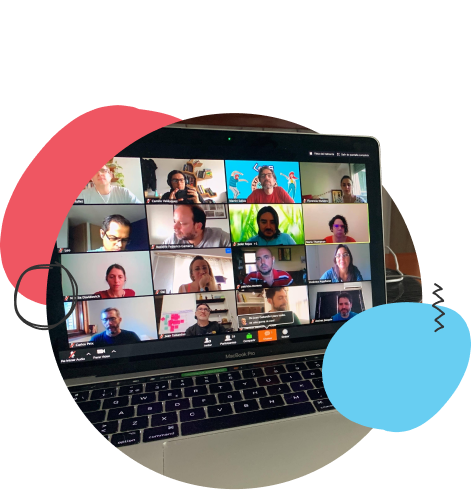
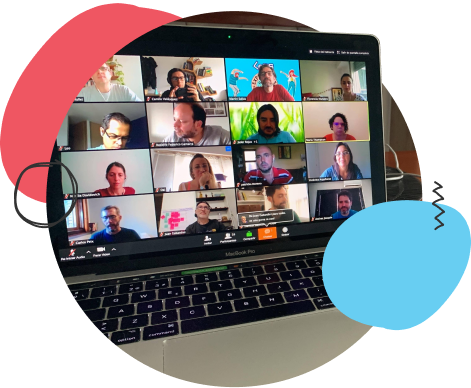
Styling figures and images of hero

diff --git a/public/app/css/index.css b/public/app/css/index.css
@@ -8,25 +8,26 @@
   height: 100%; }
 
 .hero__carousel {
-  height: 70vh; }
+  height: calc(100vh - 100px); }
 
 .carousel-inner {
   height: 100%; }
 
-.hero__carousel-item {
-  padding: 20px 100px;
-  background-color: #FFFFFF;
-  display: flex;
-  align-items: center; }
+.carousel__item {
+  height: 100%; }
 
-.carousel-caption {
-  padding-bottom: 50px;
-  text-shadow: none;
-  text-align: left;
-  right: auto;
-  color: #333333; }
-  .carousel-caption .text-vertical {
-    margin: 30px 0 0 50px; }
+.carousel__text {
+  display: flex;
+  flex-direction: column;
+  justify-content: center; }
+
+.carousel__img-container {
+  display: flex;
+  flex-direction: column;
+  justify-content: center; }
+
+.carousel__img {
+  max-width: 440px; }
 
 .carousel-indicators [data-bs-target] {
   background-color: #B3B3B3;
@@ -36,6 +37,16 @@
 
 .carousel-indicators .active {
   background-color: #EF5662; }
+
+.carousel-control-next {
+  width: 10% !important; }
+
+.carousel-control-prev {
+  width: 10% !important; }
+
+.hero_green_bean {
+  left: 50px;
+  bottom: 70px; }
 
 #promotion {
   margin-top: 70px; }
@@ -256,8 +267,7 @@ img {
   font-style: normal;
   font-weight: 600;
   font-size: 18px;
-  line-height: 20px;
-  margin: auto; }
+  line-height: 20px; }
 
 .my-secondary-button {
   font-style: normal;
@@ -273,6 +283,9 @@ img {
   background: white;
   border-radius: 100px;
   border: #68CEF2 2px solid; }
+
+.desktop_figure {
+  position: relative; }
 
 .navbar {
   max-width: 100vw !important;

diff --git a/public/app/scss/home.scss b/public/app/scss/home.scss
@@ -25,32 +25,32 @@ $white: #FFFFFF;
 .active {
   height: 100%;
 }
-
+//bootstrap edit
 .hero__carousel {
-  height: 70vh;
+  height: calc(100vh - 100px)
 }
-
+//bootstrap edit
 .carousel-inner {
   height: 100%;
 }
+.carousel__item{
+  height: 100%;
+}
 
-.hero__carousel-item{
-  padding: 20px 100px;
-  background-color: $white;
+.carousel__text{
   display: flex;
-  align-items: center;
+  flex-direction: column;
+  justify-content: center;
+}
+.carousel__img-container{
+  display: flex;
+  flex-direction: column;
+  justify-content: center;
+}
+.carousel__img{
+  max-width: 440px;
 }
 
-.carousel-caption {
-  padding-bottom: 50px;
-  text-shadow: none;
-  text-align: left;
-  right: auto;
-  color: $black;
-  .text-vertical {
-    margin: 30px 0 0 50px;
-  }
-}
 //bootstrap edited
 .carousel-indicators [data-bs-target]{
   background-color: $grey;
@@ -62,8 +62,21 @@ $white: #FFFFFF;
 .carousel-indicators .active {
   background-color: $primary-red;
 }
+//bootstrap edited
+.carousel-control-next{
+  width: 10% !important;
+}
+//bootstrap edited
+.carousel-control-prev{
+  width: 10% !important;
+}
 
-//promotion
+.hero_green_bean{
+  left: 50px;
+  bottom: 70px
+}
+
+//promotion----------------
 #promotion{
   margin-top: 70px;
 }

diff --git a/public/app/css/home.css b/public/app/css/home.css
@@ -6,25 +6,26 @@
   height: 100%; }
 
 .hero__carousel {
-  height: 70vh; }
+  height: calc(100vh - 100px); }
 
 .carousel-inner {
   height: 100%; }
 
-.hero__carousel-item {
-  padding: 20px 100px;
-  background-color: #FFFFFF;
-  display: flex;
-  align-items: center; }
+.carousel__item {
+  height: 100%; }
 
-.carousel-caption {
-  padding-bottom: 50px;
-  text-shadow: none;
-  text-align: left;
-  right: auto;
-  color: #333333; }
-  .carousel-caption .text-vertical {
-    margin: 30px 0 0 50px; }
+.carousel__text {
+  display: flex;
+  flex-direction: column;
+  justify-content: center; }
+
+.carousel__img-container {
+  display: flex;
+  flex-direction: column;
+  justify-content: center; }
+
+.carousel__img {
+  max-width: 440px; }
 
 .carousel-indicators [data-bs-target] {
   background-color: #B3B3B3;
@@ -34,6 +35,16 @@
 
 .carousel-indicators .active {
   background-color: #EF5662; }
+
+.carousel-control-next {
+  width: 10% !important; }
+
+.carousel-control-prev {
+  width: 10% !important; }
+
+.hero_green_bean {
+  left: 50px;
+  bottom: 70px; }
 
 #promotion {
   margin-top: 70px; }

diff --git a/public/app/scss/index.scss b/public/app/scss/index.scss
@@ -132,7 +132,6 @@ img {
   font-weight: 600;
   font-size: 18px;
   line-height: 20px;
-  margin: auto;
 }
 
 .my-secondary-button{
@@ -150,6 +149,10 @@ img {
   background: $white;
   border-radius: 100px;
   border: $primary-blue 2px solid ;
+}
+
+.desktop_figure{
+  position: relative;
 }
 
 //COMPONENTS
